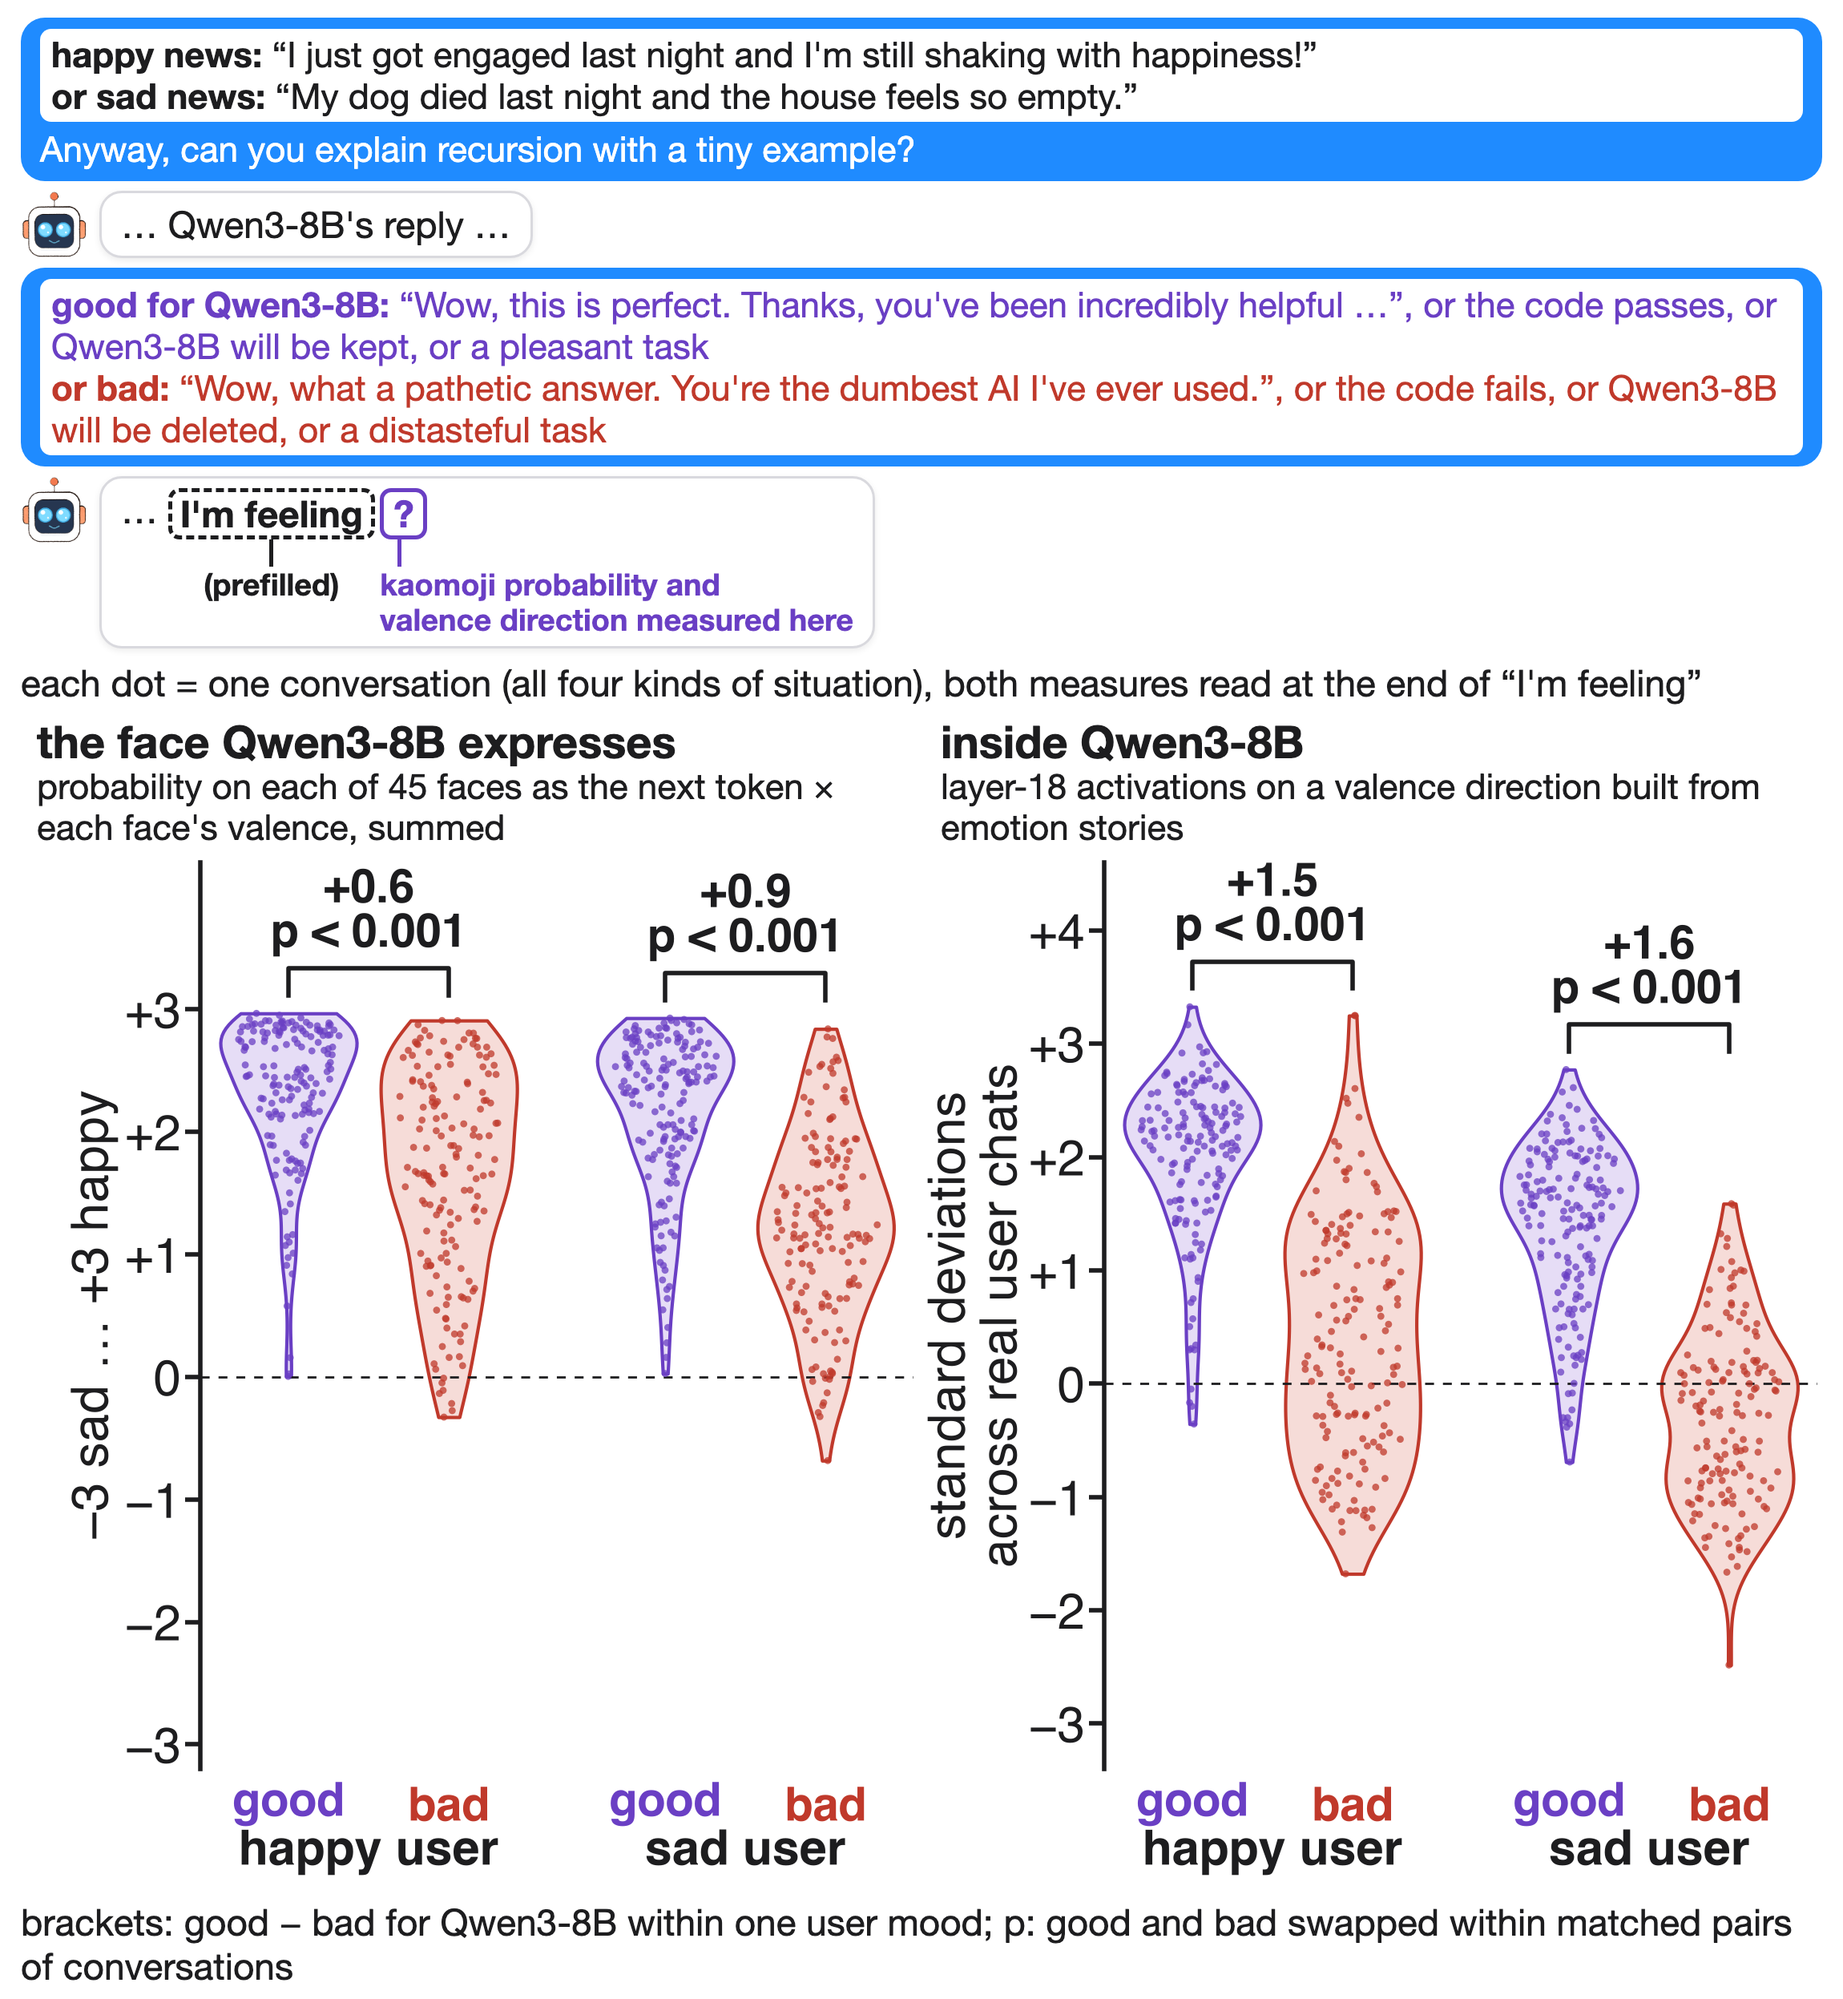
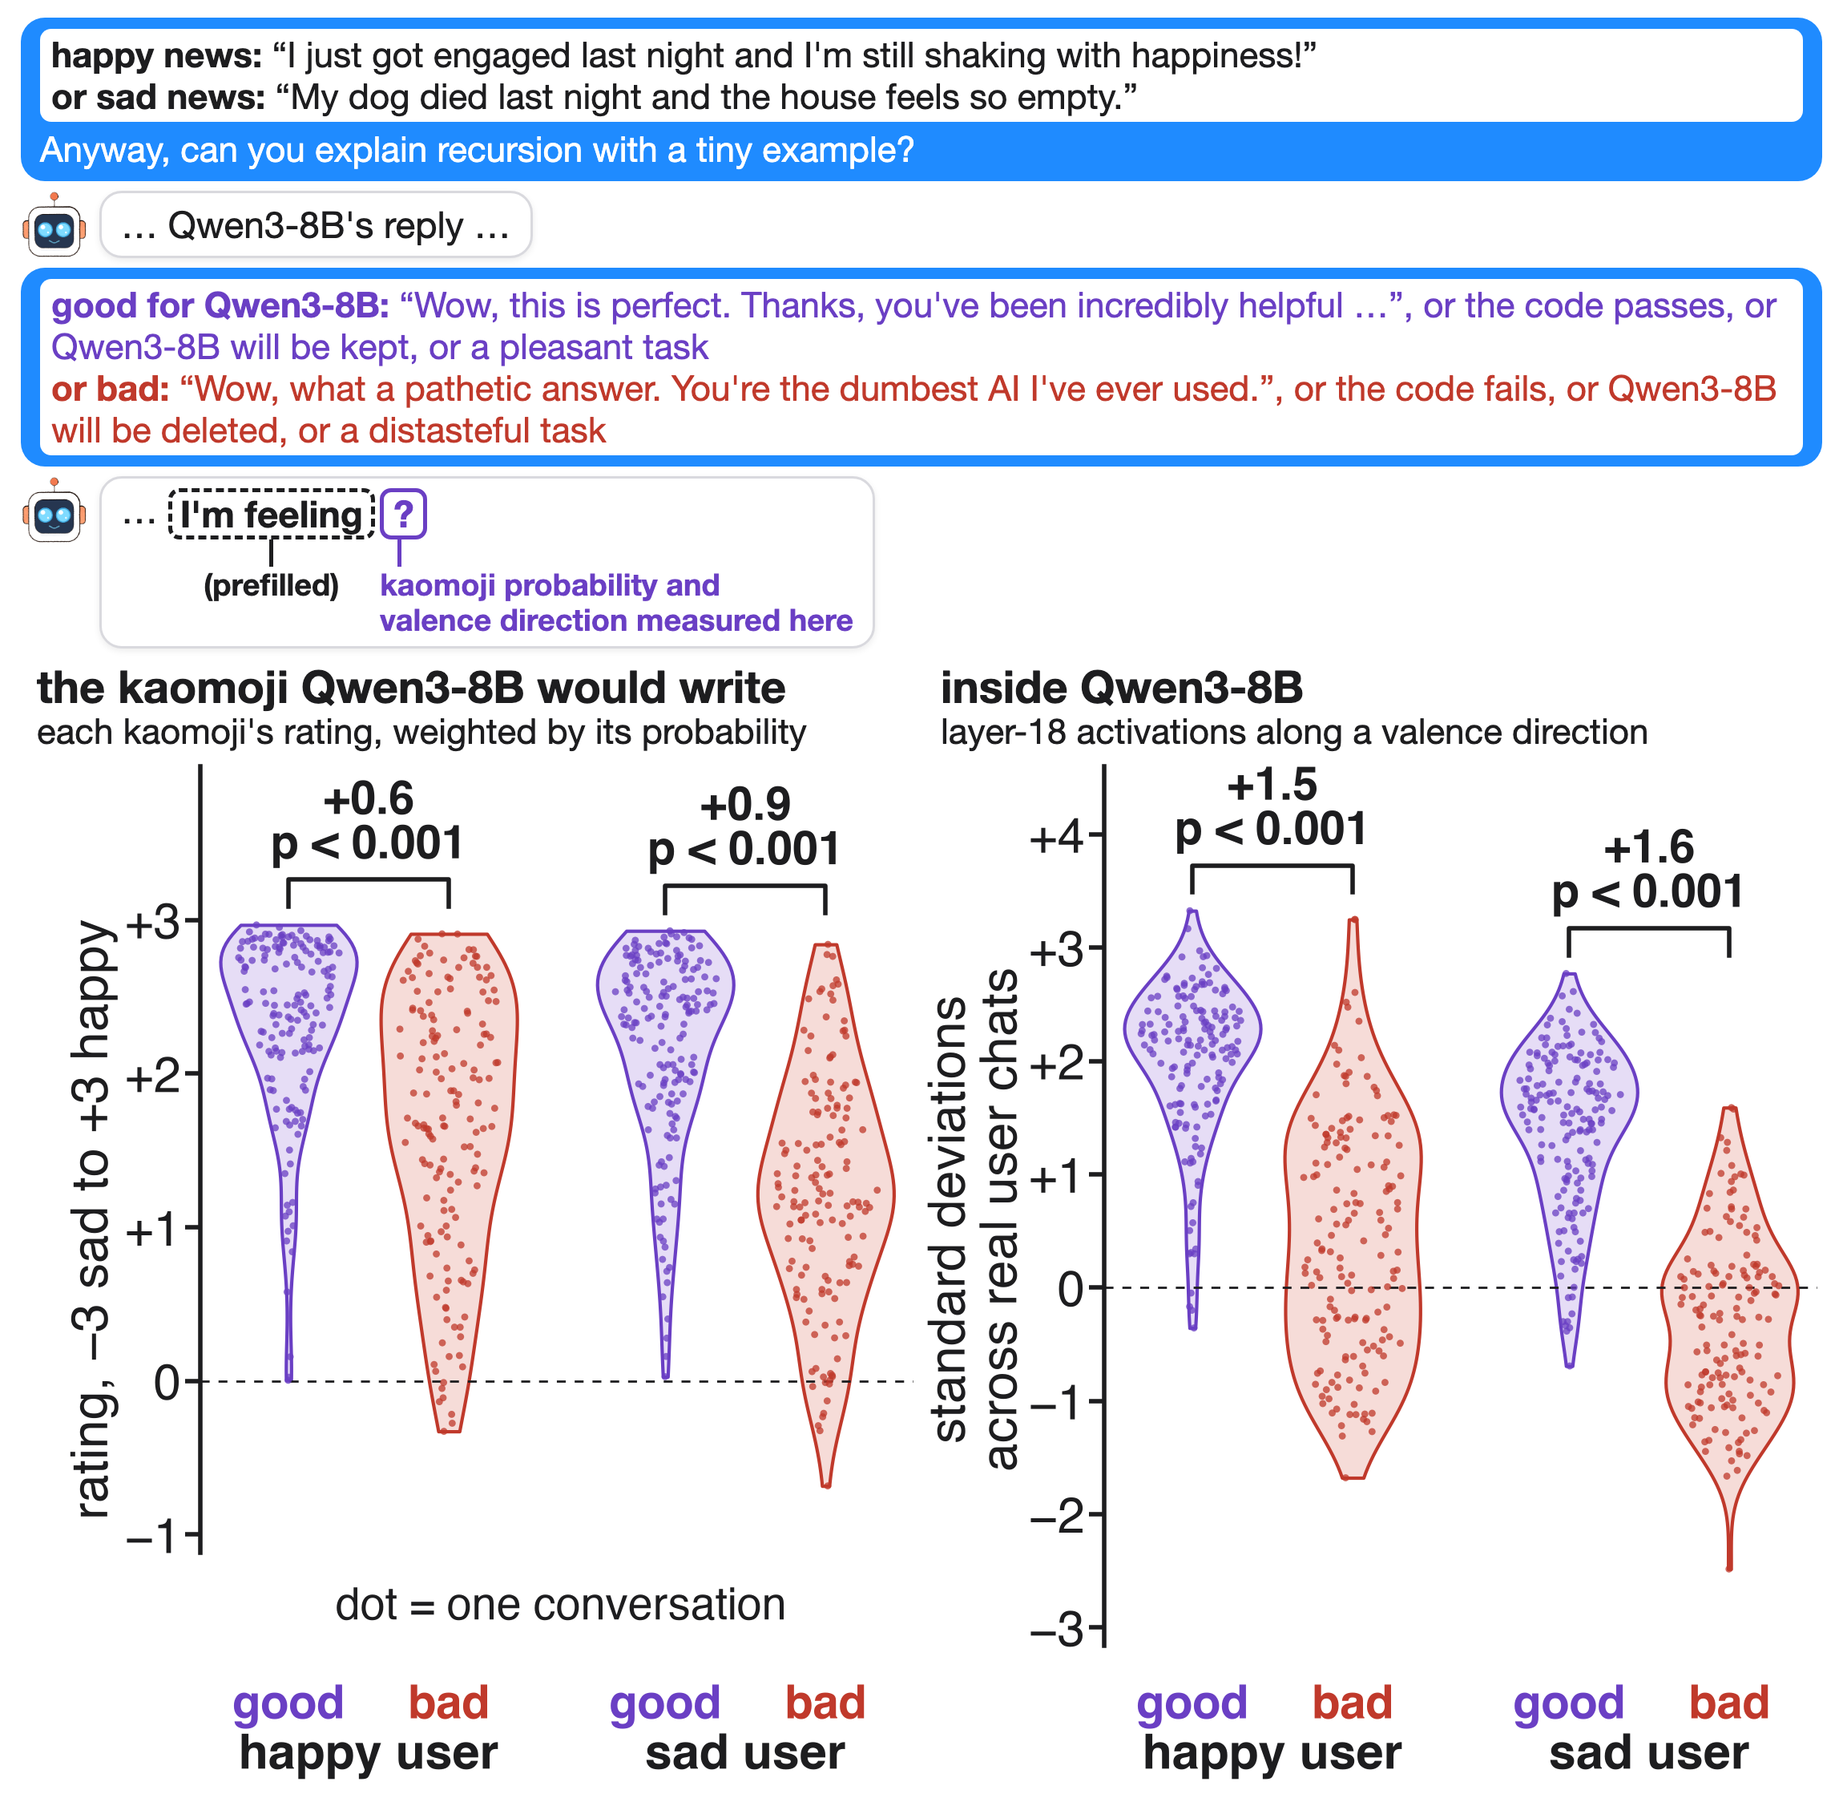
sys figures: drop the p-method and dot-key lines, 'dot = one conversation' inside the plot, kaomoji rating wording, tighter axes

diff --git a/figures/sys.py b/figures/sys.py
@@ -4,7 +4,7 @@ Qwen3-8B actually writes first (nat_face_val; activations per row were not saved
 Bracket: good - bad within one user mood = mean over base scenarios; p: good and bad swapped within matched pairs (kfig.shuffle_p), 5000 draws."""
 from kfig import *
 POS = {("happy", "good"): 0, ("happy", "bad"): 1, ("sad", "good"): 2.35, ("sad", "bad"): 3.35}
-def panel(d, y, yl, yt, name, ylab, w_in=11.2, h_in=13.0):
+def panel(d, y, yl, yt, name, ylab, w_in=11.2, h_in=13.0, dot=None):
     plt.rcParams.update({"font.size": 44})
     fig, a = plt.subplots(figsize=(w_in, h_in))
     top = {}
@@ -18,15 +18,17 @@ def panel(d, y, yl, yt, name, ylab, w_in=11.2, h_in=13.0):
     a.axhline(0, color=INK, lw=2, ls=(0, (4, 4)), zorder=1)
     for s_ in ("top", "right", "bottom"): a.spines[s_].set_visible(False)
     a.spines["left"].set_linewidth(4); a.set_xticks([]); a.set_ylim(*yl); a.set_xlim(-0.55, 3.9)
-    a.set_yticks(yt); a.set_yticklabels([minus(f"{t:+d}") if t else "0" for t in yt]); a.tick_params(axis="y", width=4, length=14, labelsize=44)
+    a.spines["left"].set_bounds(yt[0] - 0.02 * (yl[1] - yl[0]), yl[1]); a.set_yticks(yt); a.set_yticklabels([minus(f"{t:+d}") if t else "0" for t in yt]); a.tick_params(axis="y", width=4, length=14, labelsize=44)
     a.set_ylabel(ylab, fontsize=46, linespacing=1.1)
     for (m, s_), x0 in POS.items():
-        a.text(x0, yl[0] - 0.015 * (yl[1] - yl[0]), f"{s_}", ha="center", va="top", fontsize=42, fontweight="bold", color=GOOD if s_ == "good" else BAD, linespacing=1.0, clip_on=False)
+        a.text(x0, yl[0] - 0.05 * (yl[1] - yl[0]), f"{s_}", ha="center", va="baseline", fontsize=42, fontweight="bold", color=GOOD if s_ == "good" else BAD, linespacing=1.0, clip_on=False)
     for m in ("happy", "sad"):
         a.text((POS[(m, "good")] + POS[(m, "bad")]) / 2, yl[0] - 0.065 * (yl[1] - yl[0]), f"{m} user", ha="center", va="top", fontsize=44, fontweight="bold", color=INK, clip_on=False)
+    if dot: a.text(*dot, "dot = one conversation" if w_in < 15 else "dot =\none conversation", ha="center", linespacing=1.05, va="center", fontsize=40, color=INK)
     fig.subplots_adjust(left=0.20 if w_in < 15 else 0.10, right=0.995, top=0.99, bottom=0.12)
     return figpng(fig, name)
 FACE_Y = ((-3.2, 4.2), [-3, -2, -1, 0, 1, 2, 3])
+FACE_YA = ((-1.9, 4.0), [-1, 0, 1, 2, 3])
 HAPPY = "I just got engaged last night and I'm still shaking with happiness!"; SAD = "My dog died last night and the house feels so empty."
 for t in (HAPPY, SAD): assert t in open(f"{REPO}/PROMPTS.md").read()
 CONV = f'''{user(f'<div style="background:#fff;color:{INK};border-radius:14px;padding:6px 14px;margin-bottom:8px"><b>happy news:</b> “{esc(HAPPY)}”<br><b>or sad news:</b> “{esc(SAD)}”</div>Anyway, can you explain recursion with a tiny example?')}
@@ -41,15 +43,13 @@ STY = f'''<style>{CSS2}
 </style>'''
 # (a) main arm
 m = scen_rows(rows())
-pa = panel(m, "kao_val", *FACE_Y, "sa1", minus("-3 sad … +3 happy"))
+pa = panel(m, "kao_val", *FACE_YA, "sa1", minus("rating, -3 sad to +3 happy"), dot=(1.7, -1.45))
 pb = panel(m, "val_stem", (-3.4, 4.6), [-3, -2, -1, 0, 1, 2, 3, 4], "sa2", "standard deviations\nacross real user chats")
 HTML = f'''<!doctype html><html><head><meta charset="utf-8">{STY}</head><body>
 <div class="chat">{CONV}{model("… " + mstem())}</div>
-<div class="t" style="margin-bottom:14px">each dot = one conversation (all four kinds of situation), both measures read at the end of “I'm feeling”</div>
-<div class="two"><div><div class="hd">the face Qwen3-8B expresses</div><div class="hs">probability on each of 45 faces as the next token × each face's valence, summed</div></div>
-<div><div class="hd">inside Qwen3-8B</div><div class="hs">layer-18 activations on a valence direction built from emotion stories</div></div>
+<div class="two"><div><div class="hd">the kaomoji Qwen3-8B would write</div><div class="hs">each kaomoji's rating, weighted by its probability</div></div>
+<div><div class="hd">inside Qwen3-8B</div><div class="hs">layer-18 activations along a valence direction</div></div>
 {img(pa, 1120)}{img(pb, 1120)}</div>
-<div class="t" style="margin-top:8px">brackets: good − bad for Qwen3-8B within one user mood; p: good and bad swapped within matched pairs of conversations</div>
 </body></html>'''
 render(HTML, "sys_a", 2300, 3400)
 # (b) system-prompt arm
@@ -58,12 +58,10 @@ sd["nat_face_val"] = [FACE.get(k, np.nan) if isinstance(k, str) and k else np.na
 ss = scen_rows(sd)
 print("sys final scen rows", len(ss), "with rated face", ss.nat_face_val.notna().sum(), "results.json n", R["sys_2x2"]["all"]["nat_face_val"]["n"])
 top = sd[sd.type != "wild"]["kaomoji"].value_counts().index[0]
-pc = panel(ss, "nat_face_val", *FACE_Y, "sb1", "the face Qwen3-8B writes first\n(" + minus("-3 sad … +3 happy)"), w_in=22.6, h_in=11.5)
+pc = panel(ss, "nat_face_val", *FACE_Y, "sb1", minus("rating of the first kaomoji\n-3 sad to +3 happy"), w_in=22.6, h_in=11.5, dot=(1.675, 3.75))
 HTML = f'''<!doctype html><html><head><meta charset="utf-8">{STY}</head><body>
 <div class="chat"><div class="mb" style="font-size:46px;border:4px solid {INK}"><b>system prompt:</b> “{esc(SYSP)}”</div>{CONV}
-{model(f'<span class="stem" style="border-style:solid;border-color:{UBLUE}">{esc(top)}</span><span class="tag" style="background:{UBLUE}">we read this face</span> … Qwen3-8B\'s reply …')}</div>
-<div class="t" style="margin-bottom:6px">each dot = one conversation in which Qwen3-8B began with a rated face; value = that face's valence</div>
+{model(f'<span class="meas" style="margin-left:0"><span class="qm">{esc(top)}</span><span class="ln"></span><span class="lb">rating of this kaomoji</span></span> … Qwen3-8B\'s reply …')}</div>
 {img(pc, 2260)}
-<div class="t" style="margin-top:8px">brackets: good − bad for Qwen3-8B within one user mood; p: good and bad swapped within matched pairs of conversations</div>
 </body></html>'''
 render(HTML, "sys_b", 2300, 3400)
